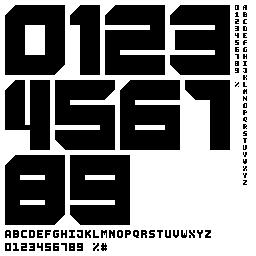
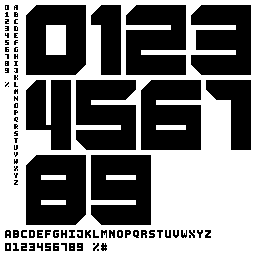
Use config for background and foreground colors

Changed region(s): [[0.0, 0.0, 1.0, 0.9062]]

diff --git a/src/pkjs/index.js b/src/pkjs/index.js
@@ -6,6 +6,29 @@ new Clay([
     "defaultValue": "BRUTAL"
   },
   {
+    "type": "section",
+    "items": [
+      {
+        "type": "heading",
+        "defaultValue": "Colors"
+      },
+      {
+        "type": "color",
+        "messageKey": "BGCOLOR",
+        "label": "Background",
+        "allowGray": true,
+        "defaultValue": "ffffff"
+      },
+      {
+        "type": "color",
+        "messageKey": "FGCOLOR",
+        "label": "Foreground",
+        "allowGray": true,
+        "defaultValue": "000000"
+      }
+    ]
+  },
+  {
     "type": "submit",
     "defaultValue": "Save"
   }

diff --git a/src/c/brutal.c b/src/c/brutal.c
@@ -9,6 +9,7 @@ static struct {
 } config;
 
 static Layer *background;
+static GColor palette[2];
 static GBitmap *glyphs, *glyph[128];
 
 // Font 8x6
@@ -95,12 +96,10 @@ Background(Layer *layer, GContext *ctx)
 	graphics_draw_bitmap_in_rect(ctx, glyph[g], rect0);
 
 	g = m / 10;
-	if (g) {
-		rect1 = gbitmap_get_bounds(glyph[g]);
-		rect1.origin.x = rect0.origin.x - MARGIN - rect1.size.w;
-		rect1.origin.y = bounds.origin.y + MARGIN*2 + rect1.size.h;
-		graphics_draw_bitmap_in_rect(ctx, glyph[g], rect1);
-	}
+	rect1 = gbitmap_get_bounds(glyph[g]);
+	rect1.origin.x = rect0.origin.x - MARGIN - rect1.size.w;
+	rect1.origin.y = bounds.origin.y + MARGIN*2 + rect1.size.h;
+	graphics_draw_bitmap_in_rect(ctx, glyph[g], rect1);
 
 	// Bottom text
 
@@ -168,16 +167,20 @@ Tick(struct tm *time, TimeUnits change)
 static void
 configure()
 {
-	time_t now;
+	// time_t now;
 
 	// Default date format
-	if (config.fmt[0] == 0)
-		strcpy(config.fmt, PBL_IF_ROUND_ELSE("%a %d", "%A %d"));
+	// if (config.fmt[0] == 0)
+	// 	strcpy(config.fmt, PBL_IF_ROUND_ELSE("%a %d", "%A %d"));
+
+	palette[0] = config.fg;
+	palette[1] = config.bg;	
 
 	// Update
 	layer_mark_dirty(background);
-	now = time(0);
-	Tick(localtime(&now), DAY_UNIT);
+	// TODO(irek): Restore
+	// now = time(0);
+	// Tick(localtime(&now), DAY_UNIT);
 }
 
 static void
@@ -208,17 +211,20 @@ main()
 
 	// Resources
 	glyphs = gbitmap_create_with_resource(RESOURCE_ID_GLYPHS);
+	gbitmap_set_palette(glyphs, palette, false);
+
 	// Font x70 numbers
-	glyph[0] = gbitmap_create_as_sub_bitmap(glyphs, GRect(5, 5, 60, 70));
-	glyph[1] = gbitmap_create_as_sub_bitmap(glyphs, GRect(70, 5, 30, 70));
-	glyph[2] = gbitmap_create_as_sub_bitmap(glyphs, GRect(105, 5, 60, 70));
-	glyph[3] = gbitmap_create_as_sub_bitmap(glyphs, GRect(170, 5, 60, 70));
-	glyph[4] = gbitmap_create_as_sub_bitmap(glyphs, GRect(5, 80, 45, 70));
-	glyph[5] = gbitmap_create_as_sub_bitmap(glyphs, GRect(55, 80, 60, 70));
-	glyph[6] = gbitmap_create_as_sub_bitmap(glyphs, GRect(120, 80, 60, 70));
-	glyph[7] = gbitmap_create_as_sub_bitmap(glyphs, GRect(185, 80, 45, 70));
-	glyph[8] = gbitmap_create_as_sub_bitmap(glyphs, GRect(5, 155, 60, 70));
-	glyph[9] = gbitmap_create_as_sub_bitmap(glyphs, GRect(70, 155, 60, 70));
+	glyph[0] = gbitmap_create_as_sub_bitmap(glyphs, GRect(26, 5, 60, 70));
+	glyph[1] = gbitmap_create_as_sub_bitmap(glyphs, GRect(91, 5, 30, 70));
+	glyph[2] = gbitmap_create_as_sub_bitmap(glyphs, GRect(126, 5, 60, 70));
+	glyph[3] = gbitmap_create_as_sub_bitmap(glyphs, GRect(191, 5, 60, 70));
+	glyph[4] = gbitmap_create_as_sub_bitmap(glyphs, GRect(26, 80, 45, 70));
+	glyph[5] = gbitmap_create_as_sub_bitmap(glyphs, GRect(76, 80, 60, 70));
+	glyph[6] = gbitmap_create_as_sub_bitmap(glyphs, GRect(141, 80, 60, 70));
+	glyph[7] = gbitmap_create_as_sub_bitmap(glyphs, GRect(206, 80, 45, 70));
+	glyph[8] = gbitmap_create_as_sub_bitmap(glyphs, GRect(26, 155, 60, 70));
+	glyph[9] = gbitmap_create_as_sub_bitmap(glyphs, GRect(91, 155, 60, 70));
+
 	// Font 8x6 numbers
 	glyph[10] = gbitmap_create_as_sub_bitmap(glyphs, GRect(5, 243, 6, 8));
 	glyph[11] = gbitmap_create_as_sub_bitmap(glyphs, GRect(13, 243, 6, 8));
@@ -230,6 +236,7 @@ main()
 	glyph[17] = gbitmap_create_as_sub_bitmap(glyphs, GRect(61, 243, 6, 8));
 	glyph[18] = gbitmap_create_as_sub_bitmap(glyphs, GRect(69, 243, 6, 8));
 	glyph[19] = gbitmap_create_as_sub_bitmap(glyphs, GRect(77, 243, 6, 8));
+
 	// Font 8x6 uppercase letters
 	glyph[20] = gbitmap_create_as_sub_bitmap(glyphs, GRect(5, 230, 6, 8));
 	glyph[21] = gbitmap_create_as_sub_bitmap(glyphs, GRect(13, 230, 6, 8));
@@ -257,51 +264,55 @@ main()
 	glyph[43] = gbitmap_create_as_sub_bitmap(glyphs, GRect(189, 230, 6, 8));
 	glyph[44] = gbitmap_create_as_sub_bitmap(glyphs, GRect(197, 230, 6, 8));
 	glyph[45] = gbitmap_create_as_sub_bitmap(glyphs, GRect(205, 230, 6, 8));
+
 	// Font 8x6 special characters
 	glyph[46] = gbitmap_create_as_sub_bitmap(glyphs, GRect(85, 243, 6, 8));
 	glyph[47] = gbitmap_create_as_sub_bitmap(glyphs, GRect(93, 243, 6, 8));
 	glyph[48] = gbitmap_create_as_sub_bitmap(glyphs, GRect(101, 243, 6, 8));
+
 	// Font 4x5 numbers
-	glyph[60] = gbitmap_create_as_sub_bitmap(glyphs, GRect(235, 5, 4, 5));
-	glyph[61] = gbitmap_create_as_sub_bitmap(glyphs, GRect(235, 12, 4, 5));
-	glyph[62] = gbitmap_create_as_sub_bitmap(glyphs, GRect(235, 19, 4, 5));
-	glyph[63] = gbitmap_create_as_sub_bitmap(glyphs, GRect(235, 26, 4, 5));
-	glyph[64] = gbitmap_create_as_sub_bitmap(glyphs, GRect(235, 33, 4, 5));
-	glyph[65] = gbitmap_create_as_sub_bitmap(glyphs, GRect(235, 40, 4, 5));
-	glyph[66] = gbitmap_create_as_sub_bitmap(glyphs, GRect(235, 47, 4, 5));
-	glyph[67] = gbitmap_create_as_sub_bitmap(glyphs, GRect(235, 54, 4, 5));
-	glyph[68] = gbitmap_create_as_sub_bitmap(glyphs, GRect(235, 61, 4, 5));
-	glyph[69] = gbitmap_create_as_sub_bitmap(glyphs, GRect(235, 68, 4, 5));
+	glyph[60] = gbitmap_create_as_sub_bitmap(glyphs, GRect(5, 5, 4, 5));
+	glyph[61] = gbitmap_create_as_sub_bitmap(glyphs, GRect(5, 12, 4, 5));
+	glyph[62] = gbitmap_create_as_sub_bitmap(glyphs, GRect(5, 19, 4, 5));
+	glyph[63] = gbitmap_create_as_sub_bitmap(glyphs, GRect(5, 26, 4, 5));
+	glyph[64] = gbitmap_create_as_sub_bitmap(glyphs, GRect(5, 33, 4, 5));
+	glyph[65] = gbitmap_create_as_sub_bitmap(glyphs, GRect(5, 40, 4, 5));
+	glyph[66] = gbitmap_create_as_sub_bitmap(glyphs, GRect(5, 47, 4, 5));
+	glyph[67] = gbitmap_create_as_sub_bitmap(glyphs, GRect(5, 54, 4, 5));
+	glyph[68] = gbitmap_create_as_sub_bitmap(glyphs, GRect(5, 61, 4, 5));
+	glyph[69] = gbitmap_create_as_sub_bitmap(glyphs, GRect(5, 68, 4, 5));
+
 	// Font 4x5 uppercase letters
-	glyph[70] = gbitmap_create_as_sub_bitmap(glyphs, GRect(243, 5, 4, 5));
-	glyph[71] = gbitmap_create_as_sub_bitmap(glyphs, GRect(243, 12, 4, 5));
-	glyph[72] = gbitmap_create_as_sub_bitmap(glyphs, GRect(243, 19, 4, 5));
-	glyph[73] = gbitmap_create_as_sub_bitmap(glyphs, GRect(243, 26, 4, 5));
-	glyph[74] = gbitmap_create_as_sub_bitmap(glyphs, GRect(243, 33, 4, 5));
-	glyph[75] = gbitmap_create_as_sub_bitmap(glyphs, GRect(243, 40, 4, 5));
-	glyph[76] = gbitmap_create_as_sub_bitmap(glyphs, GRect(243, 47, 4, 5));
-	glyph[77] = gbitmap_create_as_sub_bitmap(glyphs, GRect(243, 54, 4, 5));
-	glyph[78] = gbitmap_create_as_sub_bitmap(glyphs, GRect(243, 61, 4, 5));
-	glyph[79] = gbitmap_create_as_sub_bitmap(glyphs, GRect(243, 68, 4, 5));
-	glyph[80] = gbitmap_create_as_sub_bitmap(glyphs, GRect(243, 75, 4, 5));
-	glyph[81] = gbitmap_create_as_sub_bitmap(glyphs, GRect(243, 82, 4, 5));
-	glyph[82] = gbitmap_create_as_sub_bitmap(glyphs, GRect(243, 89, 4, 5));
-	glyph[83] = gbitmap_create_as_sub_bitmap(glyphs, GRect(243, 96, 4, 5));
-	glyph[84] = gbitmap_create_as_sub_bitmap(glyphs, GRect(243, 103, 4, 5));
-	glyph[85] = gbitmap_create_as_sub_bitmap(glyphs, GRect(243, 110, 4, 5));
-	glyph[86] = gbitmap_create_as_sub_bitmap(glyphs, GRect(243, 117, 4, 5));
-	glyph[87] = gbitmap_create_as_sub_bitmap(glyphs, GRect(243, 124, 4, 5));
-	glyph[88] = gbitmap_create_as_sub_bitmap(glyphs, GRect(243, 131, 4, 5));
-	glyph[89] = gbitmap_create_as_sub_bitmap(glyphs, GRect(243, 138, 4, 5));
-	glyph[90] = gbitmap_create_as_sub_bitmap(glyphs, GRect(243, 145, 4, 5));
-	glyph[91] = gbitmap_create_as_sub_bitmap(glyphs, GRect(243, 152, 4, 5));
-	glyph[92] = gbitmap_create_as_sub_bitmap(glyphs, GRect(243, 159, 4, 5));
-	glyph[93] = gbitmap_create_as_sub_bitmap(glyphs, GRect(243, 166, 4, 5));
-	glyph[94] = gbitmap_create_as_sub_bitmap(glyphs, GRect(243, 173, 4, 5));
-	glyph[95] = gbitmap_create_as_sub_bitmap(glyphs, GRect(243, 180, 4, 5));
+	glyph[70] = gbitmap_create_as_sub_bitmap(glyphs, GRect(14, 5, 4, 5));
+	glyph[71] = gbitmap_create_as_sub_bitmap(glyphs, GRect(14, 12, 4, 5));
+	glyph[72] = gbitmap_create_as_sub_bitmap(glyphs, GRect(14, 19, 4, 5));
+	glyph[73] = gbitmap_create_as_sub_bitmap(glyphs, GRect(14, 26, 4, 5));
+	glyph[74] = gbitmap_create_as_sub_bitmap(glyphs, GRect(14, 33, 4, 5));
+	glyph[75] = gbitmap_create_as_sub_bitmap(glyphs, GRect(14, 40, 4, 5));
+	glyph[76] = gbitmap_create_as_sub_bitmap(glyphs, GRect(14, 47, 4, 5));
+	glyph[77] = gbitmap_create_as_sub_bitmap(glyphs, GRect(14, 54, 4, 5));
+	glyph[78] = gbitmap_create_as_sub_bitmap(glyphs, GRect(14, 61, 4, 5));
+	glyph[79] = gbitmap_create_as_sub_bitmap(glyphs, GRect(14, 68, 4, 5));
+	glyph[80] = gbitmap_create_as_sub_bitmap(glyphs, GRect(14, 75, 4, 5));
+	glyph[81] = gbitmap_create_as_sub_bitmap(glyphs, GRect(14, 82, 4, 5));
+	glyph[82] = gbitmap_create_as_sub_bitmap(glyphs, GRect(14, 89, 4, 5));
+	glyph[83] = gbitmap_create_as_sub_bitmap(glyphs, GRect(14, 96, 4, 5));
+	glyph[84] = gbitmap_create_as_sub_bitmap(glyphs, GRect(14, 103, 4, 5));
+	glyph[85] = gbitmap_create_as_sub_bitmap(glyphs, GRect(14, 110, 4, 5));
+	glyph[86] = gbitmap_create_as_sub_bitmap(glyphs, GRect(14, 117, 4, 5));
+	glyph[87] = gbitmap_create_as_sub_bitmap(glyphs, GRect(14, 124, 4, 5));
+	glyph[88] = gbitmap_create_as_sub_bitmap(glyphs, GRect(14, 131, 4, 5));
+	glyph[89] = gbitmap_create_as_sub_bitmap(glyphs, GRect(14, 138, 4, 5));
+	glyph[90] = gbitmap_create_as_sub_bitmap(glyphs, GRect(14, 145, 4, 5));
+	glyph[91] = gbitmap_create_as_sub_bitmap(glyphs, GRect(14, 152, 4, 5));
+	glyph[92] = gbitmap_create_as_sub_bitmap(glyphs, GRect(14, 159, 4, 5));
+	glyph[93] = gbitmap_create_as_sub_bitmap(glyphs, GRect(14, 166, 4, 5));
+	glyph[94] = gbitmap_create_as_sub_bitmap(glyphs, GRect(14, 173, 4, 5));
+	glyph[95] = gbitmap_create_as_sub_bitmap(glyphs, GRect(14, 180, 4, 5));
+
 	// Font 4x5 special characters
-	glyph[96] = gbitmap_create_as_sub_bitmap(glyphs, GRect(235, 75, 4, 5));
-	glyph[97] = gbitmap_create_as_sub_bitmap(glyphs, GRect(235, 82, 4, 5));
+	glyph[96] = gbitmap_create_as_sub_bitmap(glyphs, GRect(5, 75, 4, 5));
+	glyph[97] = gbitmap_create_as_sub_bitmap(glyphs, GRect(5, 82, 4, 5));
 
 	// Window
 	win = window_create();
